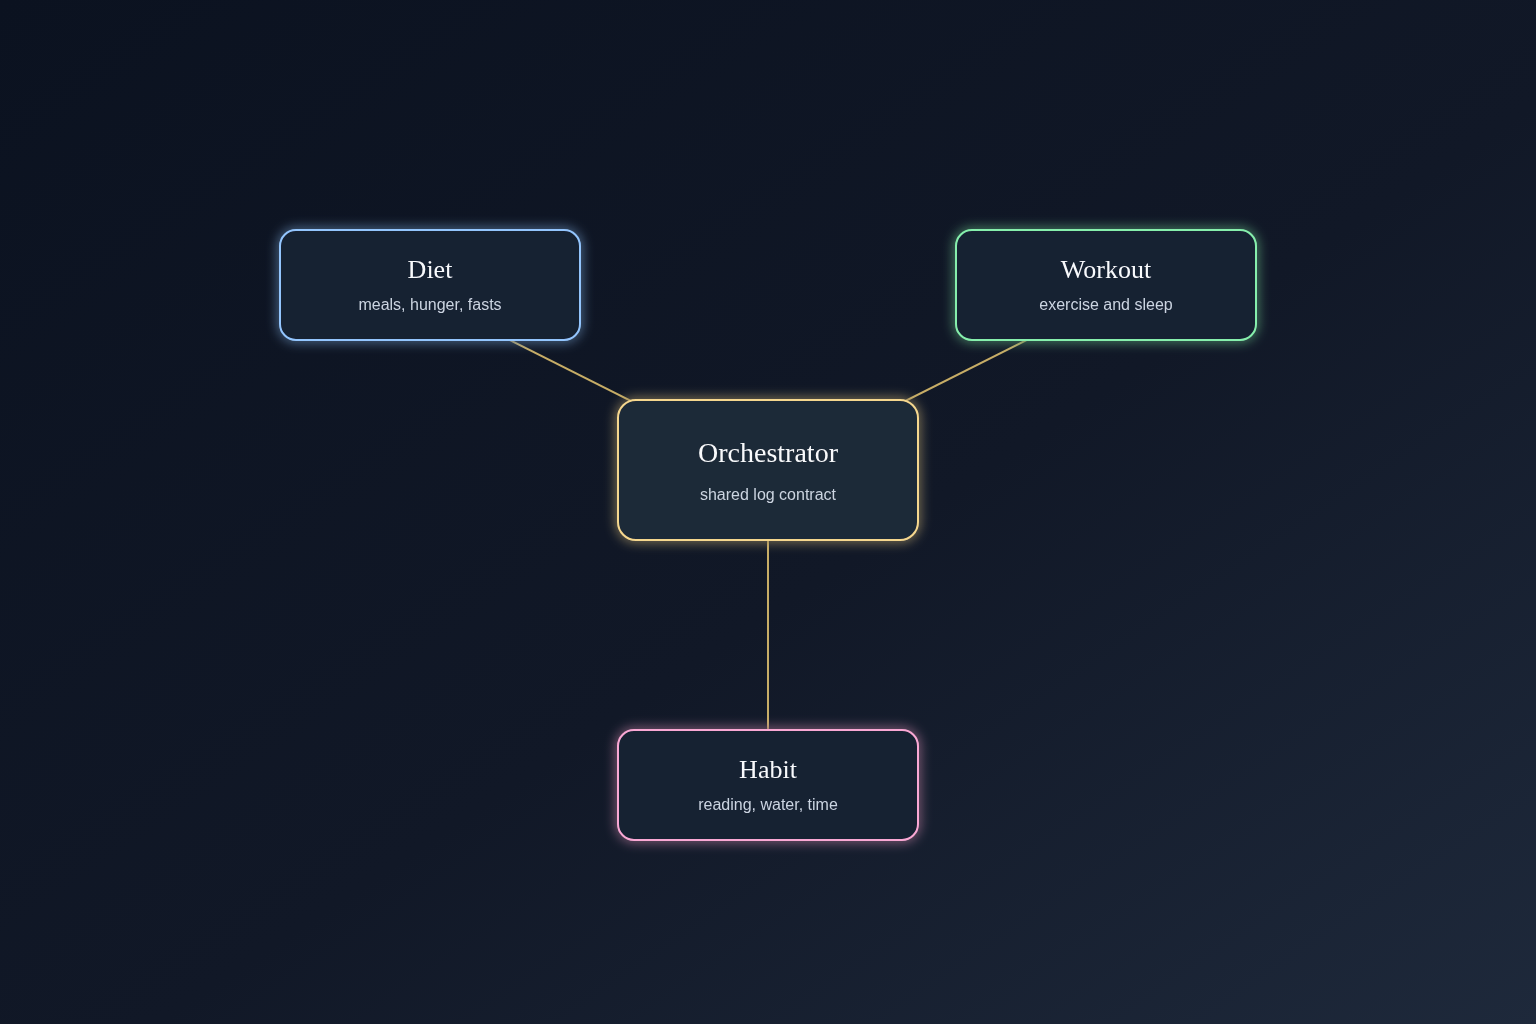
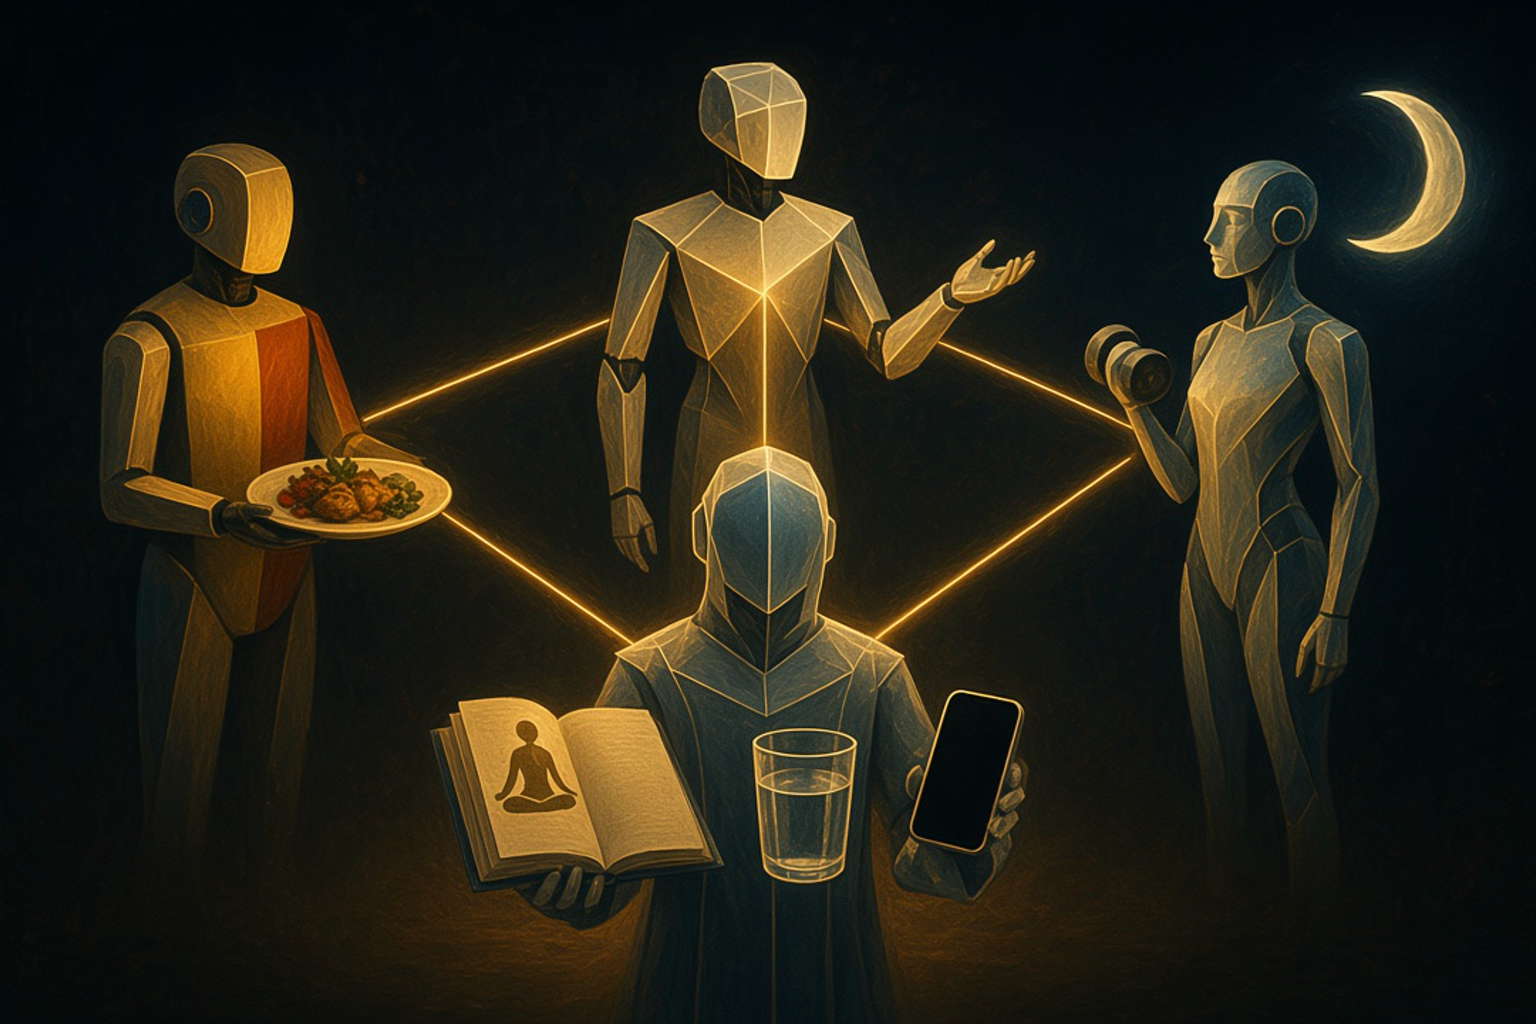
feat(blog): add unique covers for the two newest posts
Give the lifestyle and SDLC posts their own illustrated covers, and point the SDLC frontmatter at its new file.

diff --git a/frontend/content/_posts/sdlc-grok-cursor-linear.md b/frontend/content/_posts/sdlc-grok-cursor-linear.md
@@ -5,13 +5,13 @@ excerpt: >-
   new branching model every ticket. Here is how initiatives, projects, and
   issues in Linear map to FEAT, PROJ, and issue branches in GitHub — and
   the Linear SDLC Grok Bot I use to drive it.
-coverImage: '/assets/blog/agentic-engineering/cover.png'
+coverImage: '/assets/blog/sdlc-grok-cursor-linear/cover.png'
 date: '2026-11-21T04:00:00.000Z'
 author:
   name: Eri Lopez
   picture: '/assets/blog/authors/EriLopez3.png'
 ogImage:
-  url: '/assets/blog/agentic-engineering/cover.png'
+  url: '/assets/blog/sdlc-grok-cursor-linear/cover.png'
 isPublished: true
 category: 'agentic-engineering'
 ---
